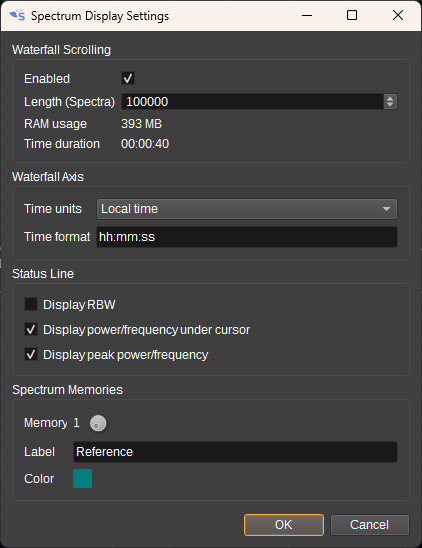
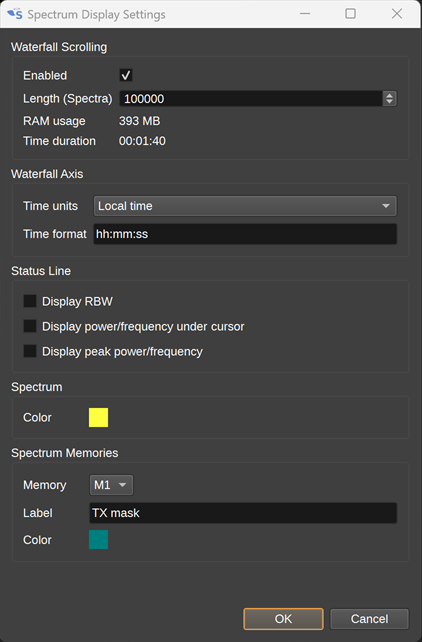
Fix warning. Add Spectrum Color to docs.

diff --git a/sdrbase/dsp/nco.cpp b/sdrbase/dsp/nco.cpp
@@ -27,11 +27,13 @@ bool NCO::m_tableInitialized = false;
 
 void NCO::initTable()
 {
-	if(m_tableInitialized)
+	if (m_tableInitialized) {
 		return;
+	}
 
-	for(int i = 0; i < TableSize; i++)
+	for (unsigned i = 0; i < TableSize; i++) {
 		m_table[i] = cos((2.0 * M_PI * i) / TableSize);
+	}
 
 	m_tableInitialized = true;
 }

diff --git a/sdrgui/gui/spectrum.md b/sdrgui/gui/spectrum.md
@@ -96,7 +96,9 @@ When the mouse is inside the time scale (waterfall) the overlap is increased by 
 
 <h2>B. Spectrum controls</h2>
 
-Controls are organized in 7 blocks arranged in a flow layout so that the size of the control area can adapt to the width of the spectrum arranging the blocks from 4 to 1 line as the spectrum widens. The buttons and various controls in each block remain at the same place.
+Not all controls are visible by default. See B.7.8 for how to select which controls are visible.
+
+Controls are organized in 7 blocks arranged in a flow layout so that the size of the control area can adapt to the width of the spectrum arranging the blocks from 5 to 1 line as the spectrum widens. The buttons and various controls in each block remain at the same place.
 
 Narrow (5 lines):
 
@@ -105,8 +107,6 @@ Narrow (5 lines):
 Wide (1 line):
 
 ![Spectrum GUI](../../doc/img/MainWindow_spectrum_gui_wide.png)
-
-Not all controls are visible by default. See B.7.8 for how to select which controls are visible.
 
 The 7 blocks are detailed next:
 
@@ -510,6 +510,12 @@ When checked, the power and frequency of the FFT bin under the cursor will be di
 <h4>Display peak power/frequency</h4>
 
 When checked, the power and frequency of the highest peak will be displayed in the status line.
+
+<h3>Spectrum</h3>
+
+<h4>Colour</h4>
+
+Specifies the color to draw the spectrum when line (B.2.1) or fill (B.2.2) style is selected.
 
 <h3>Spectrum Memories</h3>
 
